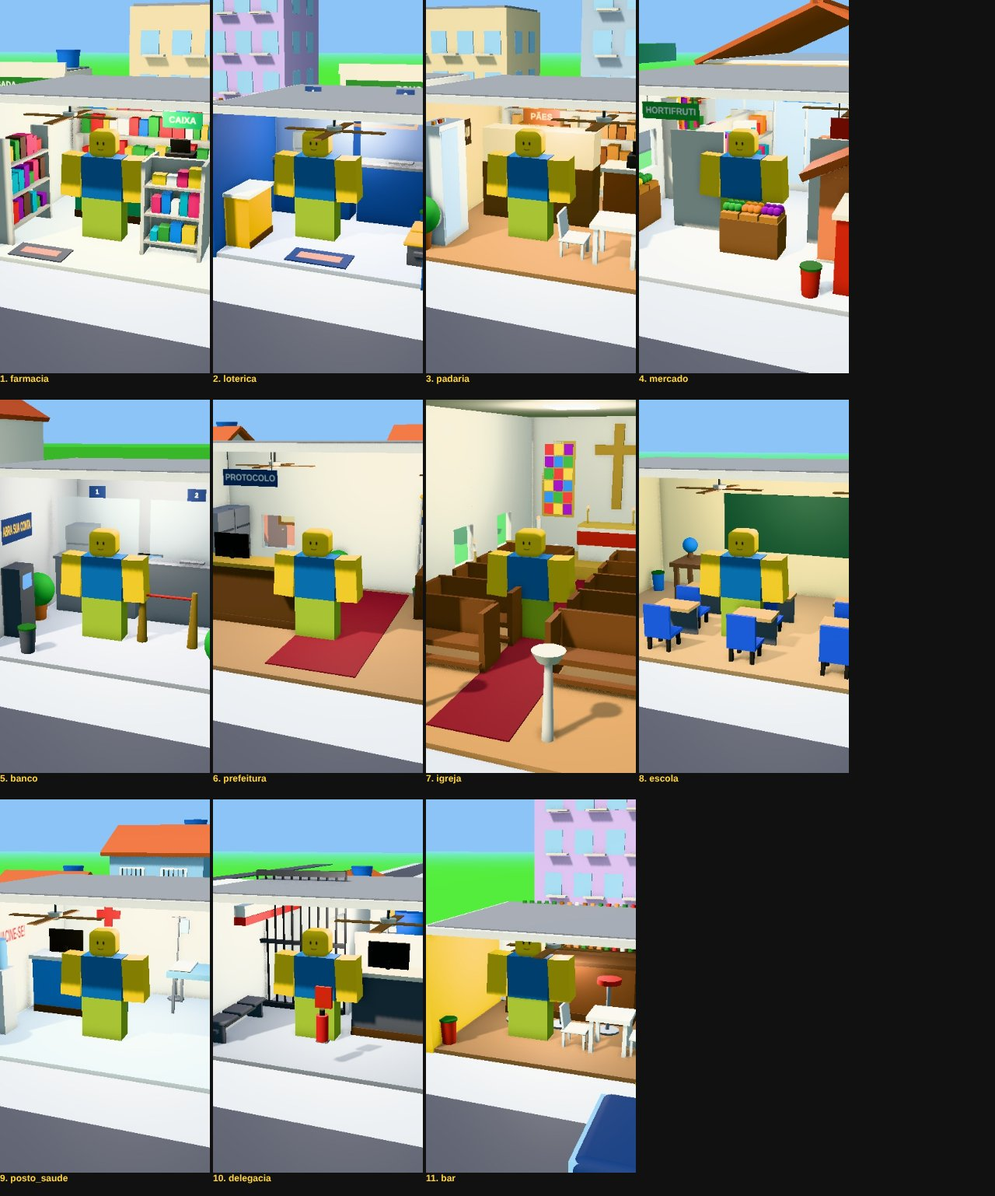
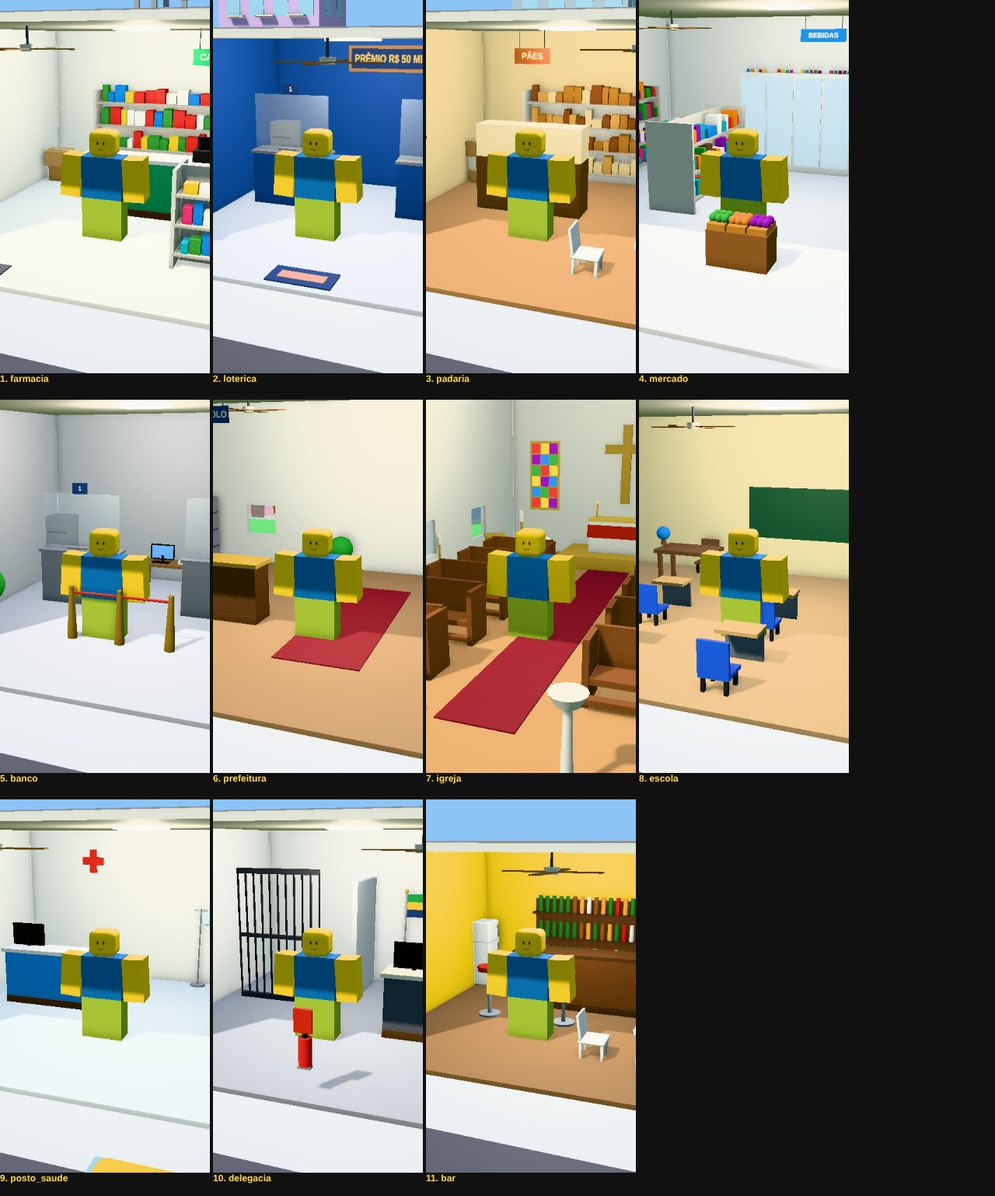
Mundo integrado com prédios maiores (≈1,6x e teto alto): interiores espalhados no tamanho novo, mapa reorganizado com calçadão em volta da praça
Claude-Session: https://claude.ai/code/session_01L9V3oGiK3wXogPFqZJY4DD

diff --git a/src/motor/mundo.js b/src/motor/mundo.js
@@ -32,16 +32,34 @@ function porta(w, h, cor, vidro, portas) {
   if (vidro) piv.add(caixa(w, 0.15, 0.16, '#9aa0aa', { pos: [w / 2, h - 0.08, 0] }));
   piv.add(esfera(0.1, '#e0b040', { pos: [w - 0.3, h / 2, 0.12] })); portas.push(piv); return piv;
 }
-function luzInterna(g, x, z, h, n, forca = 1) { const l = new THREE.PointLight(0xfff2dd, (n ? 70 : 45) * forca, 30, 1.4); l.position.set(x, h - 1.0, z); g.add(l);
+function luzInterna(g, x, z, h, n, forca = 1, alc = 30) { const l = new THREE.PointLight(0xfff2dd, (n ? 70 : 45) * forca, alc, 1.4); l.position.set(x, h - 1.0, z); g.add(l);
   g.add(caixa(2.2, 0.12, 2.2, mat('#ffffff', { emissive: '#ffffff', emissiveIntensity: 1.3 }), { pos: [x, h - 0.08, z], sombra: false })); }
 const por = (g, tipo, o, pos, vira = 0, esc) => { const p = PROPS[tipo](o); p.position.set(...pos); p.rotation.y = vira * RAD; if (esc) p.scale.setScalar(esc); g.add(p); return p; };
+
+/**
+ * Interiores foram desenhados num tamanho menor (w0,d0,h0); aqui vão para o tamanho novo (w,d,h) sem esticar os móveis:
+ * o que está encostado numa parede continua encostado nela, o resto se espalha proporcionalmente, e o que fica no teto sobe junto.
+ */
+function mapaInterior(w0, d0, h0, w, d, h) {
+  const B = 1.0, faixa = (v, a0, a) => { const s = Math.sign(v), m = Math.abs(v); return s * (m > a0 - B ? a - (a0 - m) : m * (a - B) / (a0 - B)); };
+  const x = (v) => faixa(v, w0 / 2, w / 2);
+  const z = (v) => v > -B ? v : v < -d0 + B ? -d + (v + d0) : -B + (v + B) * (d - 2 * B) / (d0 - 2 * B);
+  const y = (v) => v >= h0 - 2.0 ? v + (h - h0) : v;
+  const mover = (obj) => { if (obj.isGroup && !obj.userData.tipo && obj.position.lengthSq() < 1e-9 && obj.rotation.y === 0) { obj.children.forEach(mover); return; }
+    obj.position.set(x(obj.position.x), y(obj.position.y), z(obj.position.z)); };
+  return { x, z, objetos: (gi) => gi.children.forEach(mover),
+    ancoras: (a) => { const r = {}; for (const [k, v] of Object.entries(a)) r[k] = k === 'fila' ? { ...v, inicio: [x(v.inicio[0]), z(v.inicio[1])] } : [x(v[0]), v[1], z(v[2]), v[3]]; return r; } };
+}
 
 /**
  * Prédio oco. Fachada em z=0 olhando +Z, fundo em z=-d. Retorna o grupo com userData { ancoras, d, w }.
  * o = { w, d, h, cor, faixa, piso, letreiro:{texto,fundo,cor}, porta:{x,w,vidro,cor}, vitrines:[{x,w}], janelas:{fundo:[],esq:[],dir:[]}, interior(gi, ctx) }
  */
-function predioOco(o, ctx) {
-  const { n, unidades, portas, foco } = ctx, { w, d, h } = o, g = new THREE.Group();
+function predioOco(o0, ctx) {
+  const { n, unidades, portas, foco } = ctx, g = new THREE.Group();
+  const [w, d, h] = o0.tam || [o0.w, o0.d, o0.h], M = mapaInterior(o0.w, o0.d, o0.h, w, d, h);
+  const o = { ...o0, porta: o0.porta && { ...o0.porta, x: M.x(o0.porta.x) }, vitrines: (o0.vitrines || []).map(v => ({ x: M.x(v.x), w: v.w * Math.min(1.5, w / o0.w) })),
+    janelas: o0.janelas && { fundo: (o0.janelas.fundo || []).map(M.x), esq: (o0.janelas.esq || []).map(M.z), dir: (o0.janelas.dir || []).map(M.z) } };
   g.add(caixa(w - 0.2, 0.2, d - 0.2, o.piso || '#d9d4c8', { pos: [0, 0.1, -d / 2] }));                                  // piso (topo em 0.2)
   const P = o.porta || { x: 0, w: 2.4 };
   const fr = parede(w, h, o.cor, [{ x: P.x, w: P.w + 0.2, y0: 0, y1: 4.4 }, ...(o.vitrines || []).map(v => ({ x: v.x, w: v.w, y0: 1.2, y1: 3.9, vidro: true }))], n);
@@ -61,14 +79,15 @@ function predioOco(o, ctx) {
     for (const z of [0, -d + 0.3]) { const fr = new THREE.Mesh(new THREE.ExtrudeGeometry(sh, { depth: 0.3, bevelEnabled: false }), mat(o.cor)); fr.position.set(0, h + 0.3, z - 0.3); fr.castShadow = true; teto.add(fr); } }
   else teto.add(caixa(w - 0.6, 0.05, d - 0.6, '#8f939c', { pos: [0, h + 0.33, -d / 2] }));
   g.add(unidade(teto, unidades));
-  const gi = new THREE.Group(); g.add(gi); g.userData.ancoras = o.interior?.(gi, { w, d, h, n }) || {};
-  if (foco) luzInterna(gi, 0, -d / 2, h, n, o.luz || 1);
+  const gi = new THREE.Group(); g.add(gi); g.userData.ancoras = M.ancoras(o.interior?.(gi, { w: o0.w, d: o0.d, h: o0.h, n }) || {}); M.objetos(gi);   // desenhado no tamanho antigo, espalhado no novo
+  if (foco) { const grande = Math.max(w, d) > 26; luzInterna(gi, 0, -d / 2, h, n, (o.luz || 1) * (grande ? 1.1 : 1.25), Math.max(30, Math.max(w, d) * 1.3));
+    if (grande) luzInterna(gi, 0, -d * (w > d ? 0.5 : 0.22), h, n, 0.8, Math.max(w, d)); }
   g.userData.d = d; g.userData.w = w; g.userData.h = h; return g;
 }
 
 // ---------------- prédios do mundo (interiores compactos, coordenadas locais do prédio) ----------------
 const PREDIOS_MUNDO = {
-  farmacia: { w: 12, d: 12, h: 7, cor: '#f4f6f4', faixa: '#16a05d', piso: '#e8ece8', letreiro: { texto: 'FARMÁCIA', fundo: '#16a05d' }, porta: { x: -3, w: 2.6, vidro: true }, vitrines: [{ x: 2.5, w: 5 }],
+  farmacia: { tam: [18, 18, 10], w: 12, d: 12, h: 7, cor: '#f4f6f4', faixa: '#16a05d', piso: '#e8ece8', letreiro: { texto: 'FARMÁCIA', fundo: '#16a05d' }, porta: { x: -3, w: 2.6, vidro: true }, vitrines: [{ x: 2.5, w: 5 }],
     janelas: { dir: [-6] },
     interior(gi) { por(gi, 'prateleira', { largura: 10.5, altura: 6, cores: ['#ffffff', '#e53935', '#1e88e5', '#43a047', '#fdd835'] }, [0, 0.2, -11]);
       por(gi, 'balcao', { largura: 7, cor: '#16a05d', tampo: '#f2f3f3' }, [0, 0.2, -7]); por(gi, 'caixa_registradora', {}, [2, 3.4, -7], 180);
@@ -78,7 +97,7 @@ const PREDIOS_MUNDO = {
       por(gi, 'extintor', {}, [-5.5, 0.2, -0.8], 90); por(gi, 'lixeira', { cor: '#9aa0aa' }, [4.7, 0.2, -5.6], 0, 0.7); por(gi, 'planta', {}, [5, 0.2, -9.8]); por(gi, 'tapete', { largura: 2.6, prof: 1.4, cor: '#5a5d66' }, [-3, 0.2, -1.1]);
       por(gi, 'pilha_caixas', { n: 2, seed: 5 }, [-4.6, 0.2, -10.0]);
       return { atender: [0, 0.2, -8.8, 0], fila: { inicio: [0, -5.4], vira: 180, cresce: [-0.5, 1] } }; } },
-  loterica: { w: 10, d: 11, h: 6.5, cor: '#1d4fa0', faixa: '#f39c12', piso: '#cfd6e4', letreiro: { texto: 'LOTÉRICA', fundo: '#f5b800', cor: '#1d3b72' }, porta: { x: 0, w: 2.8, vidro: true }, vitrines: [{ x: -3.3, w: 2.2 }, { x: 3.3, w: 2.2 }],
+  loterica: { tam: [16, 16, 9.5], w: 10, d: 11, h: 6.5, cor: '#1d4fa0', faixa: '#f39c12', piso: '#cfd6e4', letreiro: { texto: 'LOTÉRICA', fundo: '#f5b800', cor: '#1d3b72' }, porta: { x: 0, w: 2.8, vidro: true }, vitrines: [{ x: -3.3, w: 2.2 }, { x: 3.3, w: 2.2 }],
     interior(gi) { for (const [i, x] of [-2.4, 2.4].entries()) por(gi, 'guiche', { largura: 4.4, cor: '#1d4fa0', numero: i + 1 }, [x, 0.2, -7]);
       const m = PROPS.mural({ texto: 'PRÊMIO R$ 50 MI', largura: 5, altura: 1.6, cor: '#1d3b72', cor_texto: '#ffd23f' }); m.position.set(0, 5.3, -10.6); gi.add(m);
       por(gi, 'balcao', { largura: 3, cor: '#f5b800', tampo: '#f2f3f3' }, [-4.0, 0.2, -2.2], 90, 0.8); por(gi, 'cadeiras_espera', { n: 2, cor: '#f5b800' }, [4.2, 0.2, -3.0], -90);
@@ -86,7 +105,7 @@ const PREDIOS_MUNDO = {
       por(gi, 'relogio_parede', {}, [-4.75, 5.0, -9], 90); por(gi, 'ventilador_teto', {}, [0, 6.7, -3]); por(gi, 'lixeira', { cor: '#1d4fa0' }, [4.0, 0.2, -5.6], 0, 0.7);
       por(gi, 'arquivo', {}, [-3.8, 0.2, -10.0], 0, 0.8); por(gi, 'pilha_caixas', { n: 2, seed: 2 }, [3.6, 0.2, -10.0]); por(gi, 'tapete', { largura: 2.8, prof: 1.4, cor: '#1d3b72' }, [0, 0.2, -1.1]);
       return { atender: [-2.4, 0.2, -8.7, 0], fila: { inicio: [-2.4, -4.9], vira: 180, cresce: [0.35, 1] } }; } },
-  padaria: { w: 12, d: 12, h: 7, cor: '#f3d9a4', faixa: '#8a4a1f', piso: '#b98b5e', letreiro: { texto: 'PADARIA', fundo: '#8a4a1f', cor: '#ffe9b0' }, porta: { x: -3, w: 2.6, vidro: true }, vitrines: [{ x: 2.6, w: 5 }],
+  padaria: { tam: [18, 18, 10], w: 12, d: 12, h: 7, cor: '#f3d9a4', faixa: '#8a4a1f', piso: '#b98b5e', letreiro: { texto: 'PADARIA', fundo: '#8a4a1f', cor: '#ffe9b0' }, porta: { x: -3, w: 2.6, vidro: true }, vitrines: [{ x: 2.6, w: 5 }],
     interior(gi) { por(gi, 'estufa_paes', { largura: 6 }, [-1.5, 0.2, -7]); por(gi, 'balcao', { largura: 3.5, cor: '#8a4a1f' }, [3.8, 0.2, -7]); por(gi, 'caixa_registradora', {}, [3.8, 3.4, -7], 180);
       por(gi, 'prateleira', { largura: 10, altura: 6, cores: ['#d9a25a', '#b87a35', '#f2d6a0', '#8a4a1f'] }, [0, 0.2, -11]);
       por(gi, 'mesa', { largura: 2.6, cor: '#f2f3f3' }, [3.5, 0.2, -2.6], 0, 0.8); por(gi, 'cadeira_plastico', {}, [1.6, 0.2, -2.6], 90, 0.8);
@@ -95,7 +114,7 @@ const PREDIOS_MUNDO = {
       por(gi, 'ventilador_teto', {}, [2.5, 7.2, -3.5]); por(gi, 'lixeira', { cor: '#8a4a1f' }, [5.3, 0.2, -1.0], 0, 0.7); por(gi, 'planta', {}, [-5.2, 0.2, -0.9]);
       por(gi, 'placa_suspensa', { texto: 'PÃES', cor: '#8a4a1f', cor_texto: '#ffe9b0', largura: 2 }, [-1.5, 5.6, -7]);
       return { atender: [3.8, 0.2, -8.7, 0], fila: { inicio: [3.8, -5.2], vira: 180, cresce: [-0.6, 1] }, sentar: [1.7, 0.2, -2.6, 90] }; } },
-  mercado: { w: 16, d: 16, h: 7.5, cor: '#f2f3f3', faixa: '#c4281c', piso: '#dfe2e6', letreiro: { texto: 'MERCADO', fundo: '#c4281c' }, porta: { x: -5, w: 3.2, vidro: true }, vitrines: [{ x: 2.5, w: 8 }],
+  mercado: { tam: [26, 24, 11], w: 16, d: 16, h: 7.5, cor: '#f2f3f3', faixa: '#c4281c', piso: '#dfe2e6', letreiro: { texto: 'MERCADO', fundo: '#c4281c' }, porta: { x: -5, w: 3.2, vidro: true }, vitrines: [{ x: 2.5, w: 8 }],
     janelas: { esq: [-8] },
     interior(gi) { for (const x of [-3.5, 3.5]) por(gi, 'gondola', { largura: 8, seed: x }, [x, 0.2, -10], 90);
       por(gi, 'geladeira_vitrine', { largura: 12 }, [0, 0.2, -15]); por(gi, 'balcao', { largura: 3.5, cor: '#c4281c' }, [5, 0.2, -3], 90); por(gi, 'caixa_registradora', {}, [5, 3.4, -3.4], 90);
@@ -105,7 +124,7 @@ const PREDIOS_MUNDO = {
       for (const [t, x, z, c] of [['HORTIFRUTI', -4.5, -5.2, '#43a047'], ['BEBIDAS', 0, -14, '#1e88e5'], ['CAIXA', 5, -3, '#c4281c']]) por(gi, 'placa_suspensa', { texto: t, cor: c, largura: 3 }, [x, 6.2, z]);
       por(gi, 'extintor', {}, [7.4, 0.2, -0.8], -90); por(gi, 'ventilador_teto', {}, [-4, 7.7, -9]); por(gi, 'ventilador_teto', {}, [4, 7.7, -6]); por(gi, 'lixeira', { cor: '#c4281c' }, [3.4, 0.2, -0.9], 0, 0.7);
       return { atender: [6.6, 0.2, -3, -90], fila: { inicio: [3.4, -3.0], vira: 90, cresce: [-1, 0.3] } }; } },
-  banco: { w: 12, d: 12, h: 8, cor: '#b8bcc6', piso: '#b8bcc6', letreiro: { texto: 'BANCO', fundo: '#1d3b72', largura: 6 }, porta: { x: 0, w: 3, vidro: true }, vitrines: [{ x: -4, w: 2.4 }, { x: 4, w: 2.4 }],
+  banco: { tam: [18, 18, 11], w: 12, d: 12, h: 8, cor: '#b8bcc6', piso: '#b8bcc6', letreiro: { texto: 'BANCO', fundo: '#1d3b72', largura: 6 }, porta: { x: 0, w: 3, vidro: true }, vitrines: [{ x: -4, w: 2.4 }, { x: 4, w: 2.4 }],
     interior(gi) { for (const [i, x] of [-2.6, 2.6].entries()) por(gi, 'guiche', { largura: 4.6, cor: '#8c909a', numero: i + 1 }, [x, 0.2, -7.5]);
       const atm = grupo([caixa(1.4, 3.4, 1.2, '#5a5d66', { pos: [0, 1.7, 0] }), plano(0.9, 0.7, mat('#5fb0ff', { emissive: '#3a8fd8', emissiveIntensity: 0.9 }), { pos: [0, 2.7, 0.61] })]);
       atm.position.set(-5.2, 0.2, -3); atm.rotation.y = Math.PI / 2; gi.add(atm); por(gi, 'fila_cordao', { n: 2 }, [-1.5, 0.2, -4]);
@@ -114,7 +133,7 @@ const PREDIOS_MUNDO = {
       por(gi, 'arquivo', {}, [-4.8, 0.2, -10.6], 0, 0.85); por(gi, 'cofre', {}, [4.4, 0.2, -10.6]); por(gi, 'mesa_trabalho', {}, [0, 0.2, -10.4], 0, 0.7);
       por(gi, 'mural', { texto: 'ABRA SUA CONTA', largura: 3.4, altura: 1.6, cor: '#1d3b72', cor_texto: '#ffd23f' }, [-5.75, 5.2, -4.2], 90);
       return { atender: [-2.6, 0.2, -9.2, 0], fila: { inicio: [-2.6, -5.4], vira: 180, cresce: [0.4, 1] } }; } },
-  prefeitura: { w: 22, d: 14, h: 9, cor: '#f4f1ea', faixa: '#1d3b72', piso: '#9b7b5a', letreiro: { texto: 'PREFEITURA MUNICIPAL', fundo: '#f4f1ea', cor: '#1d3b72', largura: 14 },
+  prefeitura: { tam: [32, 22, 12], w: 22, d: 14, h: 9, cor: '#f4f1ea', faixa: '#1d3b72', piso: '#9b7b5a', letreiro: { texto: 'PREFEITURA MUNICIPAL', fundo: '#f4f1ea', cor: '#1d3b72', largura: 14 },
     porta: { x: 0, w: 3.2, cor: '#5a3a22' }, vitrines: [{ x: -7, w: 3 }, { x: 7, w: 3 }], janelas: { fundo: [-7] },
     interior(gi) { gi.add(caixa(4, 0.05, 12, '#7b1f2b', { pos: [0, 0.23, -7], sombra: false }));
       por(gi, 'balcao', { largura: 6, cor: '#5a3a22', tampo: '#c9a24a' }, [-5, 0.2, -6]);
@@ -128,7 +147,7 @@ const PREDIOS_MUNDO = {
       por(gi, 'placa_suspensa', { texto: 'PROTOCOLO', largura: 3 }, [-5, 7.6, -6]); por(gi, 'lixeira', { cor: '#5a5d66' }, [3.0, 0.2, -10.6], 0, 0.7);
       por(gi, 'ventilador_teto', {}, [-5, 9.2, -9]); por(gi, 'ventilador_teto', {}, [6, 9.2, -4]); por(gi, 'computador', {}, [-6.3, 1.2, -6.2], 180, 0.9);
       return { atender: [-5, 0.2, -7.7, 0], sentar: [6, 0.2, -12.3, 0], assinar: [6, 0.2, -12.0, 0], discursar: [0, 0.2, 2.5, 0] }; } },
-  igreja: { w: 14, d: 26, h: 11, cor: '#f6f2e6', piso: '#b5895a', telhado: '#b5533a', porta: { x: 0, w: 3.4, cor: '#6b4426' }, janelas: { esq: [-6, -12, -18], dir: [-6, -12, -18] },
+  igreja: { tam: [20, 32, 15], w: 14, d: 26, h: 11, cor: '#f6f2e6', piso: '#b5895a', telhado: '#b5533a', porta: { x: 0, w: 3.4, cor: '#6b4426' }, janelas: { esq: [-6, -12, -18], dir: [-6, -12, -18] },
     interior(gi, { d }) { gi.add(caixa(3, 0.05, d - 2, '#7b1f2b', { pos: [0, 0.23, -d / 2], sombra: false }));
       for (let z = -18; z <= -4; z += 3) for (const s of [-1, 1]) por(gi, 'banco_igreja', { largura: 4.4 }, [s * 3.6, 0.2, z]);
       por(gi, 'altar', {}, [0, 0.2, -23], 0, 0.8); const cr = PROPS.cruz_parede({ cor: '#c9a24a' }); cr.position.set(0, 7.5, -25.6); gi.add(cr);
@@ -137,7 +156,7 @@ const PREDIOS_MUNDO = {
       for (const x of [-2.6, 2.6]) gi.add(grupo([cilindro(0.12, 0.2, 2.8, '#d8d4cc', { pos: [x, 1.6, -1.6] }), cilindro(0.55, 0.35, 0.35, '#e9e6dc', { pos: [x, 3.1, -1.6], seg: 14 })]));   // pias de água benta
       for (const z of [-9, -15]) for (const s of [-1, 1]) por(gi, 'castical', {}, [s * 6.4, 0.2, z], 0, 0.8);
       return { rezar: [-3.6, 0.2, -6.6, 0], sentar: [-3.6, 0.2, -6.6, 0], atender: [0, 1.2, -21.6, 0] }; } },
-  escola: { w: 20, d: 12, h: 8, cor: '#f5e6b8', faixa: '#1e6fd9', piso: '#b99a72', letreiro: { texto: 'ESCOLA MUNICIPAL', fundo: '#1e6fd9', largura: 12 }, porta: { x: -7, w: 2.6 },
+  escola: { tam: [30, 20, 11], w: 20, d: 12, h: 8, cor: '#f5e6b8', faixa: '#1e6fd9', piso: '#b99a72', letreiro: { texto: 'ESCOLA MUNICIPAL', fundo: '#1e6fd9', largura: 12 }, porta: { x: -7, w: 2.6 },
     vitrines: [{ x: -2, w: 2.6 }, { x: 3, w: 2.6 }, { x: 8, w: 2.6 }],
     interior(gi) { gi.add(caixa(10, 3.5, 0.2, '#24553b', { pos: [0, 4.5, -11.6] })); gi.add(caixa(10.4, 3.9, 0.15, '#7c5c46', { pos: [0, 4.5, -11.7] }));
       por(gi, 'mesa', { largura: 4, cor: '#7c5c46' }, [-5, 0.2, -9]);
@@ -148,7 +167,7 @@ const PREDIOS_MUNDO = {
       por(gi, 'lixeira', { cor: '#1e6fd9' }, [-8.8, 0.2, -9.6], 0, 0.7); por(gi, 'ventilador_teto', {}, [-3, 8.2, -6]); por(gi, 'ventilador_teto', {}, [5, 8.2, -6]);
       por(gi, 'mural', { texto: 'BOAS VINDAS!', largura: 3.6, altura: 1.6, cor: '#fdd835', cor_texto: '#1d3b72' }, [-9.75, 4.6, -5], 90);
       return { falar: [-2, 0.2, -9.5, 0], sentar: [0, 0.2, -1.6, 180] }; } },
-  posto_saude: { w: 14, d: 12, h: 7, cor: '#ffffff', faixa: '#1e88e5', piso: '#d6e2ea', letreiro: { texto: 'POSTO DE SAÚDE', fundo: '#1e88e5' }, porta: { x: 0, w: 2.8, vidro: true }, vitrines: [{ x: -4.5, w: 2.6 }, { x: 4.5, w: 2.6 }],
+  posto_saude: { tam: [22, 18, 10], w: 14, d: 12, h: 7, cor: '#ffffff', faixa: '#1e88e5', piso: '#d6e2ea', letreiro: { texto: 'POSTO DE SAÚDE', fundo: '#1e88e5' }, porta: { x: 0, w: 2.8, vidro: true }, vitrines: [{ x: -4.5, w: 2.6 }, { x: 4.5, w: 2.6 }],
     interior(gi) { por(gi, 'balcao', { largura: 5, cor: '#1e88e5', tampo: '#f2f3f3' }, [-3.5, 0.2, -7]); por(gi, 'cadeiras_espera', { n: 3 }, [5.5, 0.2, -4], -90);
       por(gi, 'maca', {}, [4, 0.2, -9.5], 90); const cz = grupo([caixa(0.5, 1.5, 0.2, '#e53935'), caixa(1.5, 0.5, 0.2, '#e53935')]); cz.position.set(-3.5, 5, -11.6); gi.add(cz);
       por(gi, 'prateleira', { largura: 3, altura: 5, cores: ['#ffffff', '#1e88e5', '#e53935', '#f2f3f3'], seed: 6 }, [5.6, 0.2, -11.3]); por(gi, 'suporte_soro', {}, [1.0, 0.2, -11]);
@@ -157,7 +176,7 @@ const PREDIOS_MUNDO = {
       por(gi, 'relogio_parede', {}, [-6.75, 5.8, -9], 90); por(gi, 'lixeira', { cor: '#9aa0aa' }, [6.3, 0.2, -0.9], 0, 0.7); por(gi, 'planta', {}, [-6.0, 0.2, -0.9]);
       por(gi, 'ventilador_teto', {}, [-3, 7.2, -3]);
       return { atender: [-3.5, 0.2, -8.8, 0], sentar: [5.2, 0.2, -4.6, -90], deitar: [4, 2.55, -9.5, 90], fila: { inicio: [-3.5, -5.2], vira: 180, cresce: [0.3, 1] } }; } },
-  delegacia: { w: 12, d: 12, h: 7, cor: '#e9ebef', faixa: '#1d3b72', piso: '#9aa0aa', letreiro: { texto: 'DELEGACIA', fundo: '#1d3b72' }, porta: { x: 2.5, w: 2.6, vidro: true }, vitrines: [{ x: -3, w: 2.4 }],
+  delegacia: { tam: [18, 18, 10], w: 12, d: 12, h: 7, cor: '#e9ebef', faixa: '#1d3b72', piso: '#9aa0aa', letreiro: { texto: 'DELEGACIA', fundo: '#1d3b72' }, porta: { x: 2.5, w: 2.6, vidro: true }, vitrines: [{ x: -3, w: 2.4 }],
     interior(gi) { por(gi, 'balcao', { largura: 4, cor: '#5a5d66' }, [2.5, 0.2, -5.5]); por(gi, 'cela', { largura: 5 }, [-3.2, 0.2, -7.4]); gi.add(caixa(0.3, 7, 4.4, '#cfd3da', { pos: [-0.6, 3.6, -9.6] }));
       por(gi, 'mesa_trabalho', {}, [3.5, 0.2, -9.6], 0, 0.8);
       por(gi, 'arquivo', {}, [5.2, 0.2, -11.0], 0, 0.8); por(gi, 'cadeira', { cor: '#1d3b72' }, [2.6, 0.2, -10.9], 0, 0.8); por(gi, 'cadeiras_espera', { n: 3, cor: '#5a5d66' }, [-5.2, 0.2, -3.5], 90);
@@ -166,7 +185,7 @@ const PREDIOS_MUNDO = {
       por(gi, 'extintor', {}, [0.4, 0.2, -0.7], 180); por(gi, 'relogio_parede', {}, [5.75, 5.5, -8], -90); por(gi, 'ventilador_teto', {}, [2.5, 7.2, -3]);
       por(gi, 'computador', {}, [2.0, 1.2, -5.7], 180, 0.9);
       return { atender: [2.5, 0.2, -7, 0], segurar_grade: [-3.2, 0.2, -8.4, 0] }; } },
-  bar: { w: 10, d: 10, h: 5.5, cor: '#f5cd30', faixa: '#c4281c', piso: '#8a6a4a', letreiro: { texto: 'BAR DO ZÉ', fundo: '#c4281c' }, porta: { x: -2, w: 3.4, cor: '#3a3d44' }, vitrines: [{ x: 2.8, w: 3 }],
+  bar: { tam: [16, 15, 9], w: 10, d: 10, h: 5.5, cor: '#f5cd30', faixa: '#c4281c', piso: '#8a6a4a', letreiro: { texto: 'BAR DO ZÉ', fundo: '#c4281c' }, porta: { x: -2, w: 3.4, cor: '#3a3d44' }, vitrines: [{ x: 2.8, w: 3 }],
     interior(gi) { por(gi, 'prateleira_garrafas', { largura: 8 }, [0, -1.2, -9.4]); por(gi, 'balcao', { largura: 7, cor: '#7a4a2a', tampo: '#5a3a22' }, [0, 0.2, -6.8]);
       for (let i = 0; i < 3; i++) por(gi, 'banqueta', {}, [-2.4 + i * 2.4, 0.2, -5.0]); const tv = PROPS.tv_parede({ tela: 'futebol' }); tv.position.set(3.8, 4.2, -9.6); tv.scale.setScalar(0.6); gi.add(tv);
       por(gi, 'mesa', { largura: 2.6, cor: '#f2f3f3' }, [3.0, 0.2, -2.8], 0, 0.75); for (const x of [1.4, 4.5]) por(gi, 'cadeira_plastico', {}, [x, 0.2, -2.8], x < 3 ? 90 : -90, 0.8);
@@ -218,22 +237,22 @@ function casaProtagonista(ctx) {
 }
 
 // ---------------- layout do mapa ----------------
-const PR = 26, AN = 36, FR = 39.5; // meia praça, borda externa do anel de ruas, linha das fachadas
+const PR = 26, AN = 48.5, FR = 52, RUA = 10, BX = 30, WX = -20; // meia praça, borda externa do anel de ruas, linha das fachadas, largura da rua, deslocamento do bairro (leste) e do lado oeste
 export const LOTES_MUNDO = [
-  { id: 'prefeitura', f: [-24, -FR], rot: 0 }, { id: 'igreja', f: [2, -FR], rot: 0 }, { id: 'banco', f: [24, -FR], rot: 0 },
-  { id: 'escola', f: [-22, FR], rot: 180 }, { id: 'posto_saude', f: [22, FR], rot: 180 },
-  { id: 'padaria', f: [-FR, -22], rot: 90 }, { id: 'farmacia', f: [-FR, -8], rot: 90 }, { id: 'loterica', f: [-FR, 9], rot: 90 }, { id: 'bar', f: [-FR, 22], rot: 90 },
-  { id: 'mercado', f: [FR, -20], rot: -90 }, { id: 'delegacia', f: [FR, 21], rot: -90 },
+  { id: 'prefeitura', f: [-28, -FR], rot: 0 }, { id: 'igreja', f: [0, -FR], rot: 0 }, { id: 'banco', f: [26, -FR], rot: 0 },
+  { id: 'escola', f: [-31, FR], rot: 180 }, { id: 'posto_saude', f: [15, FR], rot: 180 },
+  { id: 'padaria', f: [-FR, -29.5], rot: 90 }, { id: 'farmacia', f: [-FR, -9.5], rot: 90 }, { id: 'loterica', f: [-FR, 10], rot: 90 }, { id: 'bar', f: [-FR, 29.5], rot: 90 },
+  { id: 'mercado', f: [FR, -24], rot: -90 }, { id: 'delegacia', f: [FR, 22], rot: -90 },
 ];
-const CASA_LOTE = { id: 'casa', f: [78, -12], rot: 0 };
+const CASA_LOTE = { id: 'casa', f: [78 + BX, -12], rot: 0 };
 const PONTOS = { praca: { f: [0, 18], rot: 0, recuo: 0, chao: 0.45 }, coreto: { f: [0, 6.5], rot: 0, recuo: 2.5, chao: 0.45 }, fonte: { f: [13.9, -13.9], rot: -45, recuo: 6.6, chao: 0.45 },
-  parquinho: { f: [11.5, 15.5], rot: 0, recuo: 0, chao: 0.45 }, estatua: { f: [-13.9, -13.9], rot: 45, recuo: 5.0, chao: 0.45 }, rua_bairro: { f: [92, 0], rot: 90, recuo: 0, chao: 0.1 },
-  posto_gasolina: { f: [52, 9], rot: 180, recuo: 3, chao: 0.2 }, campinho: { f: [139, 22.5], rot: 90, recuo: 0, chao: 0.2 } };
+  parquinho: { f: [11.5, 15.5], rot: 0, recuo: 0, chao: 0.45 }, estatua: { f: [-13.9, -13.9], rot: 45, recuo: 5.0, chao: 0.45 }, rua_bairro: { f: [92 + BX, 0], rot: 90, recuo: 0, chao: 0.1 },
+  posto_gasolina: { f: [52 + BX, 9], rot: 180, recuo: 3, chao: 0.2 }, campinho: { f: [139 + BX, 22.5], rot: 90, recuo: 0, chao: 0.2 } };
 /** Centro de cada lugar no mapa (para desenhar a planta com nomes). */
 export function centrosMundo() {
   const out = LOTES_MUNDO.map(l => { const d = PREDIOS_MUNDO[l.id].d, r = l.rot * RAD; return { id: l.id, x: l.f[0] - Math.sin(r) * d / 2, z: l.f[1] - Math.cos(r) * d / 2 }; });
-  return [...out, { id: 'casa', x: CASA_LOTE.f[0], z: CASA_LOTE.f[1] - CASA.d / 2 }, { id: 'posto_gasolina', x: 60, z: 17 }, { id: 'coreto', x: 4, z: 4 }, { id: 'fonte', x: 14, z: -14 },
-    { id: 'estatua', x: -14, z: -14 }, { id: 'parquinho', x: 15, z: 15 }, { id: 'rua_bairro', x: 125, z: 0 }, { id: 'campinho', x: 139, z: 23 }, ...EXTRAS_MAPA.map(e => ({ id: '_' + e.nome, nome: e.nome, x: e.x, z: e.z }))];
+  return [...out, { id: 'casa', x: CASA_LOTE.f[0], z: CASA_LOTE.f[1] - CASA.d / 2 }, { id: 'posto_gasolina', x: 60 + BX, z: 17 }, { id: 'coreto', x: 4, z: 4 }, { id: 'fonte', x: 14, z: -14 },
+    { id: 'estatua', x: -14, z: -14 }, { id: 'parquinho', x: 15, z: 15 }, { id: 'rua_bairro', x: 125 + BX, z: 0 }, { id: 'campinho', x: 139 + BX, z: 23 }, ...EXTRAS_MAPA.map(e => ({ id: '_' + e.nome, nome: e.nome, x: e.x, z: e.z }))];
 }
 export const LOCAIS_MUNDO = [...LOTES_MUNDO.map(l => l.id), 'casa', ...Object.keys(PONTOS), 'vista'];
 export const LOCAIS_COM_INTERIOR = [...LOTES_MUNDO.map(l => l.id), 'casa'];
@@ -274,14 +293,28 @@ function praca(g, n, r) {
   por(g, 'barraca', { cor: '#c4281c' }, [-15, 0.45, 4.9], 0, 0.75); por(g, 'bandeira', {}, [8, 0.45, -24.8]);
 }
 
+/** Faixa larga entre a praça e o anel de ruas: calçada com canteiros, árvores, bancos e postes (saídas livres nos caminhos da praça). */
+function calcadao(g, n, r, RI) {
+  g.add(caixa(RI * 2, 0.34, RI * 2, '#d9d4c8', { pos: [0, 0.17, 0] })); g.add(caixa(RI * 2 + 0.6, 0.3, RI * 2 + 0.6, '#b8b4aa', { pos: [0, 0.15, 0] }));   // calçada + meio-fio
+  const M = (PR + RI) / 2;   // meio da faixa
+  for (const s of [-1, 1]) for (let t = -RI + 5; t <= RI - 5; t += 9) { if (Math.abs(t) < 7) continue;   // não tapa a saída dos caminhos
+    for (const [x, z] of [[t, s * M], [s * M, t]]) { g.add(caixa(2.6, 0.4, 2.6, '#9a8f7a', { pos: [x, 0.4, z] })); g.add(caixa(2.2, 0.05, 2.2, '#3fae3a', { pos: [x, 0.62, z], sombra: false }));
+      const a = PROPS.arvore({ tam: r.entre(0.85, 1.1) }); a.position.set(x, 0.6, z); g.add(a); } }
+  for (const s of [-1, 1]) for (const t of [-22, 22]) { por(g, 'banco', {}, [t, 0.34, s * (M + 2.6)], s > 0 ? 0 : 180); por(g, 'banco', {}, [s * (M + 2.6), 0.34, t], s > 0 ? 90 : -90); }
+  for (const s of [-1, 1]) for (const t of [-RI + 2, -8, 8, RI - 2]) { por(g, 'poste', { noite: n }, [t, 0.34, s * (RI - 1.2)], s > 0 ? 0 : 180); }
+  for (const [x, z] of [[-RI + 3, -RI + 3], [RI - 3, -RI + 3], [-RI + 3, RI - 3], [RI - 3, RI - 3]]) por(g, 'lixeira', {}, [x, 0.34, z], 0, 0.8);
+}
+
 export function construirMundo(o, g, r) {
   const n = o.hora === 'noite', unidades = [], portas = [];
   g.add(caixa(800, 0.2, 800, '#4ccd3d', { pos: [0, -0.1, 0] }));
   g.add(caixa(AN * 2 + 8, 0.2, AN * 2 + 8, '#c3c7cf', { pos: [0, 0.1, 0] }));                         // calçadas
   g.add(caixa(AN * 2, 0.2, AN * 2, '#4f5361', { pos: [0, 0.11, 0] }));                                // anel de ruas
-  for (const [x, z, w, d] of [[0, -(PR + 5), 2 * PR, 0.25], [0, PR + 5, 2 * PR, 0.25], [-(PR + 5), 0, 0.25, 2 * PR], [PR + 5, 0, 0.25, 2 * PR]]) g.add(caixa(w, 0.03, d, '#f5cd30', { pos: [x, 0.22, z], sombra: false }));
-  g.add(caixa(200, 0.2, 10, '#4f5361', { pos: [AN + 100, 0.11, 0] })); for (const s of [-1, 1]) g.add(caixa(200, 0.25, 3, '#c3c7cf', { pos: [AN + 100, 0.12, s * 6.5] }));   // rua do bairro (leste)
-  for (let x = AN + 4; x < 230; x += 7) g.add(caixa(3, 0.03, 0.3, '#f2f3f3', { pos: [x, 0.22, 0], sombra: false }));
+  const RM = AN - RUA / 2, RI = AN - RUA;   // meio do anel e borda interna (calçadão da praça)
+  for (const [x, z, w, d] of [[0, -RM, 2 * RM, 0.25], [0, RM, 2 * RM, 0.25], [-RM, 0, 0.25, 2 * RM], [RM, 0, 0.25, 2 * RM]]) g.add(caixa(w, 0.03, d, '#f5cd30', { pos: [x, 0.22, z], sombra: false }));
+  calcadao(g, n, r, RI);
+  g.add(caixa(200 + BX, 0.2, 10, '#4f5361', { pos: [AN + 100 + BX / 2, 0.11, 0] })); for (const s of [-1, 1]) g.add(caixa(200 + BX, 0.25, 3, '#c3c7cf', { pos: [AN + 100 + BX / 2, 0.12, s * 6.5] }));   // rua do bairro (leste)
+  for (let x = AN + 4; x < 230 + BX; x += 7) g.add(caixa(3, 0.03, 0.3, '#f2f3f3', { pos: [x, 0.22, 0], sombra: false }));
   praca(g, n, r);
   const ctx = { n, unidades, portas };
   const focoId = o.dentro || o.comodo ? o.local : null;
@@ -289,21 +322,21 @@ export function construirMundo(o, g, r) {
   // torre da igreja (por fora, ao lado da porta)
   { const ig = LOTES_MUNDO.find(l => l.id === 'igreja'), t = grupo([caixa(4, 18, 4, '#f6f2e6', { pos: [0, 9, -2] }), cilindro(0, 3.2, 4.5, '#b5533a', { pos: [0, 20.2, -2], seg: 4 }),
       caixa(0.3, 2.2, 0.3, '#e8c25a', { pos: [0, 23.5, -2] }), caixa(1.3, 0.3, 0.3, '#e8c25a', { pos: [0, 23.9, -2] }), caixa(1.8, 2.2, 0.2, '#5a3a22', { pos: [0, 15, 0.05] })]);
-    t.position.set(ig.f[0] + 9, 0.2, ig.f[1]); g.add(t); }
+    t.position.set(ig.f[0] + PREDIOS_MUNDO.igreja.tam[0] / 2 + 2.5, 0.2, ig.f[1]); g.add(t); }
   // casa do protagonista + rua do bairro
   const casa = casaProtagonista({ ...ctx, foco: focoId === 'casa', comodo: o.comodo }); casa.position.set(CASA_LOTE.f[0], 0.2, CASA_LOTE.f[1]); casa.userData.lote = CASA_LOTE; g.add(casa);
   por(g, 'muro', { largura: 30, cor: '#e9e6dc', portao_x: -6, portao_cor: '#1d3b72' }, [CASA_LOTE.f[0], 0.2, -5.6]); por(g, 'carro', { cor: '#c4281c' }, [CASA_LOTE.f[0] + 7, 0.2, -8.6], 90, 0.9);
   const cores = ['#8fc1e3', '#f2a7c3', '#b7e1a1', '#e9e6dc', '#f28b5b', '#c9b2e8', '#ffe08a'];
-  const LOJAS_BAIRRO = [[100, 1], [139, -1], [178, 1]];   // [x, lado] ocupados por mercadinho, oficina e borracharia
-  for (let x = 48; x <= 210; x += 13) for (const lado of [-1, 1]) { if (lado < 0 && Math.abs(x - CASA_LOTE.f[0]) < 18) continue; if (lado > 0 && x < 60) continue;
+  const LOJAS_BAIRRO = [[100 + BX, 1], [139 + BX, -1], [178 + BX, 1]];   // [x, lado] ocupados por mercadinho, oficina e borracharia
+  for (let x = 84; x <= 210 + BX; x += 13) for (const lado of [-1, 1]) { if (lado < 0 && Math.abs(x - CASA_LOTE.f[0]) < 18) continue; if (lado > 0 && x < 60 + BX) continue;
     if (LOJAS_BAIRRO.some(([lx, ll]) => ll === lado && Math.abs(lx - x) < 6)) continue;
     if (lado > 0 && Math.abs(x - CAMPINHO.x) < CAMPINHO.w / 2 + 10) continue;   // campinho + folga de gramado dos dois lados
     por(g, r() < 0.3 ? 'sobrado' : 'casa_br', { cor: r.item(cores), noite: n, largura: 9 }, [x, 0, lado * 13], lado > 0 ? 180 : 0);
     por(g, 'muro', { largura: 12, cor: '#e9e6dc', portao_x: r.entre(-2, 2) }, [x, 0, lado * 8.1], lado > 0 ? 180 : 0); }
-  for (let x = 46; x <= 200; x += 16) por(g, 'poste_fios', { noite: n }, [x, 0, -5.6]);
-  por(g, 'posto_gasolina', { noite: n }, [52, 0.2, 9], 180);
-  for (const [x, z, v, c] of [[-31, 16, 0, '#1d3b72'], [31, 12, 180, '#f2f3f3'], [10, 31, 90, '#f5c400']]) por(g, c === '#f5c400' ? 'taxi' : 'carro', { cor: c }, [x, 0.2, z], v);
-  for (const z of [-1, 1]) for (let x = -70; x <= 70; x += 12) if (!(z < 0 && x > -12 && x < 20)) por(g, r() < 0.3 ? 'sobrado' : 'casa_br', { cor: r.item(cores), noite: n, largura: 8 }, [x, 0, z * 68], z > 0 ? 180 : 0);
+  for (let x = 82; x <= 200 + BX; x += 16) por(g, 'poste_fios', { noite: n }, [x, 0, -5.6]);
+  por(g, 'posto_gasolina', { noite: n }, [52 + BX, 0.2, 9], 180);
+  for (const [x, z, v, c] of [[-RM, 16, 0, '#1d3b72'], [RM, 12, 180, '#f2f3f3'], [10, RM, 90, '#f5c400']]) por(g, c === '#f5c400' ? 'taxi' : 'carro', { cor: c }, [x, 0.2, z], v);
+  for (const z of [-1, 1]) for (let x = -84; x <= 84; x += 12) por(g, r() < 0.3 ? 'sobrado' : 'casa_br', { cor: r.item(cores), noite: n, largura: 8 }, [x, 0, z * 100], z > 0 ? 180 : 0);
   povoar(g, n, r);
   g.add(caixa(500, 16, 80, '#3fae3a', { pos: [0, 0, -170] }));
   g.userData.unidades = unidades; g.userData.portas = portas;
@@ -319,7 +352,7 @@ function predio(g, x, z, rot, alt, cor, n) { const p = PROPS.predio({ altura: al
 function caixaDaguaTorre(g, x, z) { const t = grupo([cilindro(4, 4, 5, '#d8dde3', { pos: [0, 21, 0], seg: 20 }), cilindro(4.3, 4.3, 0.6, '#9aa0aa', { pos: [0, 23.7, 0], seg: 20 }),
     ...[0, 90, 180, 270].map(a => caixa(0.6, 18.5, 0.6, '#9aa0aa', { pos: [Math.sin(a * RAD) * 3, 9.25, Math.cos(a * RAD) * 3] })), caixa(6.6, 0.4, 0.4, '#9aa0aa', { pos: [0, 9, 0] }), caixa(0.4, 0.4, 6.6, '#9aa0aa', { pos: [0, 9, 0] })]);
   const pl = placaTexto('ÁGUA', 3.2, 1.1, { fundo: '#1e6fd9', corTexto: '#fff' }); pl.position.set(0, 21, 4.05); t.add(pl); t.position.set(x, 0, z); g.add(t); }
-export const CAMPINHO = { x: 139, z: 22.5, w: 38, d: 21 };   // entre o mercadinho (x 113) e a borracharia (x 165), lado sul da rua
+export const CAMPINHO = { x: 139 + 30, z: 22.5, w: 38, d: 21 };   // entre o mercadinho (x 113) e a borracharia (x 165), lado sul da rua
 function campinho(g, n, r) {
   const { x, z, w, d } = CAMPINHO, L = '#f2f3f3';
   g.add(caixa(w + 4, 0.16, d + 4, '#3fae3a', { pos: [x, 0.08, z] })); g.add(caixa(w, 0.18, d, '#58b947', { pos: [x, 0.09, z] }));
@@ -344,46 +377,44 @@ function quadra(g, x, z) { g.add(caixa(26, 0.15, 16, '#2e8b57', { pos: [x, 0.08,
   for (const s of [-1, 1]) g.add(caixa(26.4, 4, 0.1, new THREE.MeshStandardMaterial({ color: 0xaaaaaa, transparent: true, opacity: 0.3 }), { pos: [x, 2, z + s * 8.2], sombra: false })); }
 
 export const EXTRAS_MAPA = [
-  { nome: 'Sorveteria', x: -40, z: -FR - 3 },
-  { nome: 'Açougue', x: 37, z: -FR - 3 },
-  { nome: 'Papelaria', x: -40.5, z: FR + 3 },
-  { nome: 'Salão de beleza', x: 38, z: FR + 3 },
-  { nome: 'Loja de roupas', x: -5, z: FR + 3 },
-  { nome: 'Ótica', x: 6.8, z: FR + 3 },
-  { nome: 'Apartamentos', x: -64, z: -24 },
-  { nome: 'Apartamentos', x: -64, z: 24 },
-  { nome: 'Pousada', x: -63, z: 8 },
-  { nome: "Caixa d'água", x: -82, z: 0 },
-  { nome: 'Apartamentos', x: 48, z: -50 },
-  { nome: 'Mercadinho', x: 100, z: 12 },
-  { nome: 'Oficina', x: 139, z: -12 },
-  { nome: 'Borracharia', x: 178, z: 12 },
+  { nome: 'Sorveteria', x: -49, z: -FR - 3 },
+  { nome: 'Açougue', x: 41, z: -FR - 3 },
+  { nome: 'Papelaria', x: -51, z: FR + 3 },
+  { nome: 'Salão de beleza', x: 33, z: FR + 3 },
+  { nome: 'Loja de roupas', x: -10, z: FR + 3 },
+  { nome: 'Ótica', x: -1.5, z: FR + 3 },
+  { nome: 'Apartamentos', x: -64 + WX, z: -24 },
+  { nome: 'Apartamentos', x: -64 + WX, z: 24 },
+  { nome: 'Pousada', x: -63 + WX, z: 8 },
+  { nome: "Caixa d'água", x: -82 + WX, z: 0 },
+  { nome: 'Apartamentos', x: 66, z: -66 },
+  { nome: 'Mercadinho', x: 100 + BX, z: 12 },
+  { nome: 'Oficina', x: 139 + BX, z: -12 },
+  { nome: 'Borracharia', x: 178 + BX, z: 12 },
   ];
 function povoar(g, n, r) {
-  const marca = () => {};   // posições dos nomes no mapa ficam em EXTRAS_MAPA
   // cantos e vãos em volta da praça
-  loja(g, -40, -FR, 0, 'SORVETERIA', '#ff66cc', 8, n); marca('Sorveteria', -40, -FR - 3);
-  loja(g, 37, -FR, 0, 'AÇOUGUE', '#8a1f1f', 8, n); marca('Açougue', 37, -FR - 3);
-  loja(g, -40.5, FR, 180, 'PAPELARIA', '#6b32a8', 8, n); marca('Papelaria', -40.5, FR + 3);
-  loja(g, 38, FR, 180, 'SALÃO DE BELEZA', '#e0207a', 9, n); marca('Salão de beleza', 38, FR + 3);
-  loja(g, -5, FR, 180, 'LOJA DE ROUPAS', '#1e6fd9', 8, n); marca('Loja de roupas', -5, FR + 3);
-  loja(g, 6.8, FR, 180, 'ÓTICA', '#00897b', 7, n); marca('Ótica', 6.8, FR + 3);
+  loja(g, -49, -FR, 0, 'SORVETERIA', '#ff66cc', 8, n);
+  loja(g, 41, -FR, 0, 'AÇOUGUE', '#8a1f1f', 8, n);
+  loja(g, -51, FR, 180, 'PAPELARIA', '#6b32a8', 8, n);
+  loja(g, 33, FR, 180, 'SALÃO DE BELEZA', '#e0207a', 9, n);
+  loja(g, -10, FR, 180, 'LOJA DE ROUPAS', '#1e6fd9', 8, n);
+  loja(g, -1.5, FR, 180, 'ÓTICA', '#00897b', 7, n);
   // a oeste, atrás das lojas: prédios de apartamentos, pousada e a caixa d'água da cidade
-  for (const [z, a, c] of [[-24, 16, '#9fb3c8'], [-8, 12, '#e9d8b0'], [24, 18, '#c9b2e8']]) predio(g, -64, z, 90, a, c, n);
-  marca('Apartamentos', -64, -24); marca('Apartamentos', -64, 24);
-  loja(g, -59, 8, 90, 'POUSADA', '#2e7d32', 12, n, '#f6efe0'); marca('Pousada', -63, 8);
-  caixaDaguaTorre(g, -82, 0); marca("Caixa d'água", -82, 0);
-  for (let z = -40; z <= 40; z += 13) por(g, r() < 0.4 ? 'sobrado' : 'casa_br', { cor: r.item(['#8fc1e3', '#f2a7c3', '#b7e1a1', '#ffe08a', '#f28b5b']), noite: n, largura: 8.5 }, [-98, 0, z], 90);
+  for (const [z, a, c] of [[-24, 16, '#9fb3c8'], [-8, 12, '#e9d8b0'], [24, 18, '#c9b2e8']]) predio(g, -64 + WX, z, 90, a, c, n);
+  loja(g, -59 + WX, 8, 90, 'POUSADA', '#2e7d32', 12, n, '#f6efe0');
+  caixaDaguaTorre(g, -82 + WX, 0);
+  for (let z = -40; z <= 40; z += 13) por(g, r() < 0.4 ? 'sobrado' : 'casa_br', { cor: r.item(['#8fc1e3', '#f2a7c3', '#b7e1a1', '#ffe08a', '#f28b5b']), noite: n, largura: 8.5 }, [-98 + WX, 0, z], 90);
   // norte e sul atrás das fileiras: mais casas e um prédio
-  predio(g, -48, -50, 0, 14, '#f0b446', n); predio(g, 48, -50, 0, 12, '#8fc1e3', n); marca('Apartamentos', 48, -50);   // longe da fileira de casas de trás
+  predio(g, -66, -66, 0, 14, '#f0b446', n); predio(g, 66, -66, 0, 12, '#8fc1e3', n);   // longe da fileira de casas de trás
   // bairro: comércio de rua, segunda fileira de casas e quadra
-  loja(g, 100, 9, 180, 'MERCADINHO', '#43a047', 9, n); marca('Mercadinho', 108, 12);
-  loja(g, 139, -9, 0, 'OFICINA', '#3a3d44', 11, n, '#cfd3da'); por(g, 'carro', { cor: '#1d3b72' }, [139, 0.2, -7.4], 90, 0.9); marca('Oficina', 134, -12);
-  loja(g, 178, 9, 180, 'BORRACHARIA', '#f5b800', 8, n); for (let i = 0; i < 3; i++) g.add(cilindro(0.9, 0.9, 0.6, '#1b1b1b', { pos: [181.5, 0.5 + i * 0.62, 7.6], seg: 14 })); marca('Borracharia', 160, 12);
-  for (let x = 74; x <= 204; x += 13) for (const lado of [-1, 1]) if (r() < 0.8) por(g, r() < 0.35 ? 'sobrado' : 'casa_br', { cor: r.item(['#8fc1e3', '#f2a7c3', '#b7e1a1', '#e9e6dc', '#f28b5b', '#c9b2e8', '#ffe08a']), noite: n, largura: 8.5 }, [x, 0, lado * 52], lado > 0 ? 180 : 0);
-  for (const lado of [-1, 1]) g.add(caixa(170, 0.2, 7, '#4f5361', { pos: [130, 0.11, lado * 40] }));   // ruas paralelas (longe o bastante da casa do protagonista, que é funda)
+  loja(g, 100 + BX, 9, 180, 'MERCADINHO', '#43a047', 9, n);
+  loja(g, 139 + BX, -9, 0, 'OFICINA', '#3a3d44', 11, n, '#cfd3da'); por(g, 'carro', { cor: '#1d3b72' }, [139 + BX, 0.2, -7.4], 90, 0.9);
+  loja(g, 178 + BX, 9, 180, 'BORRACHARIA', '#f5b800', 8, n); for (let i = 0; i < 3; i++) g.add(cilindro(0.9, 0.9, 0.6, '#1b1b1b', { pos: [181.5 + BX, 0.5 + i * 0.62, 7.6], seg: 14 }));
+  for (let x = 74 + BX; x <= 204 + BX; x += 13) for (const lado of [-1, 1]) if (r() < 0.8) por(g, r() < 0.35 ? 'sobrado' : 'casa_br', { cor: r.item(['#8fc1e3', '#f2a7c3', '#b7e1a1', '#e9e6dc', '#f28b5b', '#c9b2e8', '#ffe08a']), noite: n, largura: 8.5 }, [x, 0, lado * 52], lado > 0 ? 180 : 0);
+  for (const lado of [-1, 1]) g.add(caixa(170, 0.2, 7, '#4f5361', { pos: [135 + BX, 0.11, lado * 40] }));   // ruas paralelas (longe o bastante da casa do protagonista, que é funda)
   campinho(g, n, r);
-  for (let i = 0; i < 10; i++) por(g, 'arvore', { tam: r.entre(0.9, 1.3) }, [r.entre(55, 200), 0, r.item([-1, 1]) * r.entre(60, 66)]);
+  for (let i = 0; i < 10; i++) por(g, 'arvore', { tam: r.entre(0.9, 1.3) }, [r.entre(55 + BX, 200 + BX), 0, r.item([-1, 1]) * r.entre(60, 66)]);
 }
 
 /**

diff --git a/src/motor/cenarios.js b/src/motor/cenarios.js
@@ -237,7 +237,7 @@ export const CENARIOS = {
     construirMundo(o, g, r); const e = enquadrarMundo(g, o);
     // só existe o pedaço do mundo em volta do local gravado
     const vista = !o.local || o.local === 'vista', principal = g.children.find(c => c.userData?.lote?.id === o.local);
-    const raio = o.alcance ?? (vista ? Infinity : o.comodo ? 4 : o.dentro ? 30 : 80);
+    const raio = o.alcance ?? (vista ? Infinity : o.comodo ? 4 : o.dentro ? 45 : 80);
     g.userData.recortados = recortarMundo(g, raio, principal ? [principal] : []);
     if (o.comodo === 'quarto_pais' && e.ancoras.deitar_pais) { e.ancoras.deitar = e.ancoras.deitar_pais; e.ancoras.dormir = e.ancoras.deitar_pais; }
     g.userData.ancoras = e.ancoras; },

diff --git a/docs/ROTEIRO.md b/docs/ROTEIRO.md
@@ -52,10 +52,11 @@ ligados por portas) e o posto de gasolina.
 **Locais:** prefeitura, igreja, banco, escola, posto_saude, padaria, farmacia, loterica, bar, mercado, delegacia, casa (todos com `dentro: true`),
 praca, coreto, fonte, parquinho, estatua, rua_bairro, campinho (campo de futebol do bairro, entre o mercadinho e a borracharia, com gramado dos lados), posto_gasolina, vista.
 
+- **Tamanho dos prédios:** ambientes grandes, no estilo Roblox (farmácia 18×18 com teto de 10; prefeitura 32×22; igreja 20×32 com teto de 15). A praça tem um calçadão arborizado em volta, depois o anel de ruas.
 - **Mapa com os nomes:** `docs/preview/mapa_mundo.jpg`. Interiores de todos os prédios: `docs/preview/interiores_mundo.jpg`. Câmera de cima para cenas: `cam: mapa` (e `alvo_xz: [x, z]` para escolher o centro).
 - **Só o local gravado existe na cena:** o resto do mundo é removido ao montar cada cena (mais leve para a GPU).
-  Alcance padrão: 80 na calçada, 30 dentro de prédio, só a casa num cômodo, mapa inteiro na `vista`. Mude com `alcance: 120` na cena.
-- **Portas abrem sozinhas** quando alguém chega perto e fecham depois. A porta fica em `x` = −3 na farmácia/padaria, 0 na lotérica/banco/posto de saúde/igreja/prefeitura, −5 no mercado, 2,5 na delegacia, −2 no bar e −6 na casa (em relação ao ponto da calçada).
+  Alcance padrão: 80 na calçada, 45 dentro de prédio, só a casa num cômodo, mapa inteiro na `vista`. Mude com `alcance: 120` na cena.
+- **Portas abrem sozinhas** quando alguém chega perto e fecham depois. A porta fica em `x` = −4,8 na farmácia/padaria, 0 na lotérica/banco/posto de saúde/igreja/prefeitura, −8,6 no mercado, 4 na delegacia, −3,5 no bar e −6 na casa (em relação ao ponto da calçada).
 - **Paredes e tetos somem sozinhos** quando ficam entre a câmera e o ator (vista em corte), e voltam depois. Com `foco:`, só o ator em foco abre o corte.
 - Dentro da casa, os móveis dos outros cômodos ficam escondidos para não atrapalhar a câmera.
 - Todas as âncoras continuam funcionando (`atender`, `fila: N`, `rezar`, `segurar_grade`, `sentar`, `deitar`, `jogar_pc`, `cozinhar`…).
@@ -145,7 +146,7 @@ Dica: `cam: aberto` + `angulo: -55` mostra a fila de lado.
 | `multidao` | figurantes gerados automaticamente (abaixo) | — |
 | `fila` | fila de pessoas em interiores com balcão/guichê (`fila: 6`) | — |
 | `comodo` | cômodo da `casa_protagonista` | quarto |
-| `alcance` | (mundo/cidade) até onde o mundo existe em volta do local gravado | 80 fora · 30 dentro · casa |
+| `alcance` | (mundo/cidade) até onde o mundo existe em volta do local gravado | 80 fora · 45 dentro · casa |
 
 ## Atores
 
